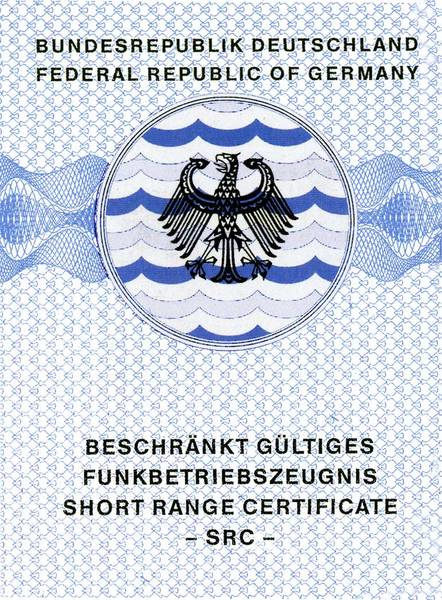
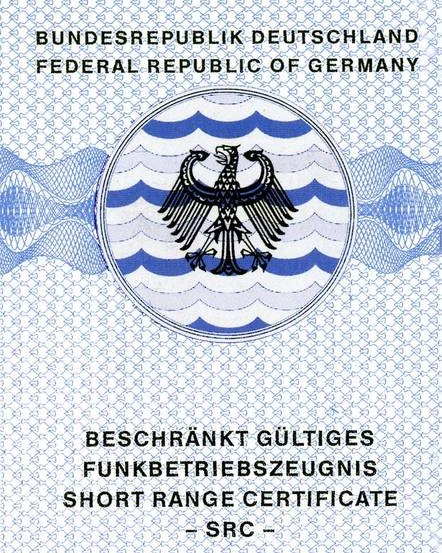
small changes

diff --git a/javascript/results_script.js b/javascript/results_script.js
@@ -89,14 +89,14 @@ var data = {
     name: "LRC Funkzeugnis",
     description:
       "Amtliches Funkzeugnis zur uneingeschränkten Teilnahme am Seefunkdienst im GMDSS für UKW, Grenzwelle, Kurzwelle und Seefunk über Satelliten (Inmarsat) auf Sportbooten.",
-    img: "img/LRC.jpg",
+    img: "img/LRC2.jpg",
     link: "https://www.abc-wassersport.de/funkzeugnis/lrc/",
   },
   UBI:{
     name: "UBI Funkzeugnis",
     description:
       "Amtlicher Funkschein zum Betrieb einer UKW Schiffsfunkstelle auf Binnenschifffahrtsstraßen.",
-    img: "img/UBI.jpg",
+    img: "img/UBI2.jpg",
     link: "https://www.abc-wassersport.de/funkzeugnis/ubi/",
   },
   

diff --git a/css/results_style.css b/css/results_style.css
@@ -65,7 +65,7 @@
 .img-cont {
   height: 40vh;
   width: 32vh;
-  border-radius: var(--border-radius) 0 0 var(--border-radius);
+  border-radius: var(--border-radius); /*var(--border-radius) 0 0 var(--border-radius)*/
   overflow: hidden;
   display: none;
   min-width: 32vh;
@@ -73,7 +73,7 @@
 }
 
 .lic-img {
-  border-radius: var(--border-radius) 0 0 var(--border-radius);
+  border-radius: var(--border-radius);
   width: 32vh;
   max-width: 32vh;
   height: 40vh;

diff --git a/index.html b/index.html
@@ -5,7 +5,7 @@
     <meta http-equiv="X-UA-Compatible" content="IE=edge" />
     <meta name="viewport" content="width=device-width, initial-scale=1.0" />
     <link rel="stylesheet" href="css/questions_style.css" />
-    <link rel="icon" type="image/x-icon" href="/img/favicon.ico">
+    <link rel="icon" type="image/x-icon" href="/img/abc-logo.png">
     <title>ABC Führerschein-Finder</title>
   </head>
   <body>

diff --git a/results.html b/results.html
@@ -5,7 +5,7 @@
     <meta http-equiv="X-UA-Compatible" content="IE=edge" />
     <meta name="viewport" content="width=device-width, initial-scale=1.0" />
     <link rel="stylesheet" href="css/results_style.css" />
-    <link rel="icon" type="image/x-icon" href="/img/favicon.ico">
+    <link rel="icon" type="image/x-icon" href="/img/abc-logo.png">
     <title>ABC Führerschein-Finder</title>
   </head>
   <body>

diff --git a/secQuestion.html b/secQuestion.html
@@ -5,7 +5,7 @@
   <meta http-equiv="X-UA-Compatible" content="IE=edge">
   <meta name="viewport" content="width=device-width, initial-scale=1.0">
   <link rel="stylesheet" href="css/questions_style.css">
-  <link rel="icon" type="image/x-icon" href="/img/favicon.ico">
+  <link rel="icon" type="image/x-icon" href="/img/abc-logo.png">
   <title>ABC Führerschein-Finder</title>
 </head>
 <body>
